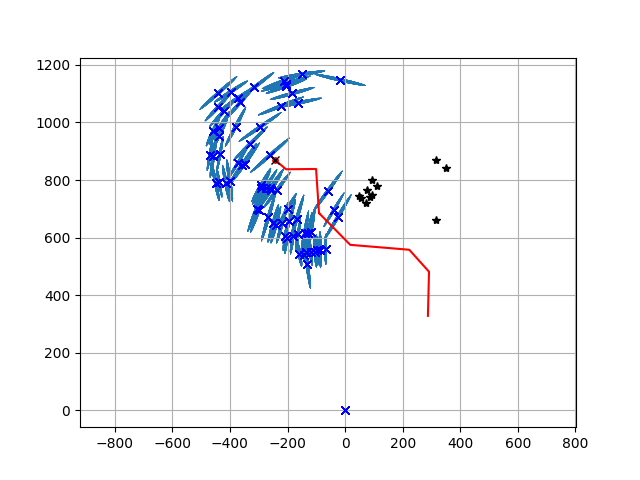
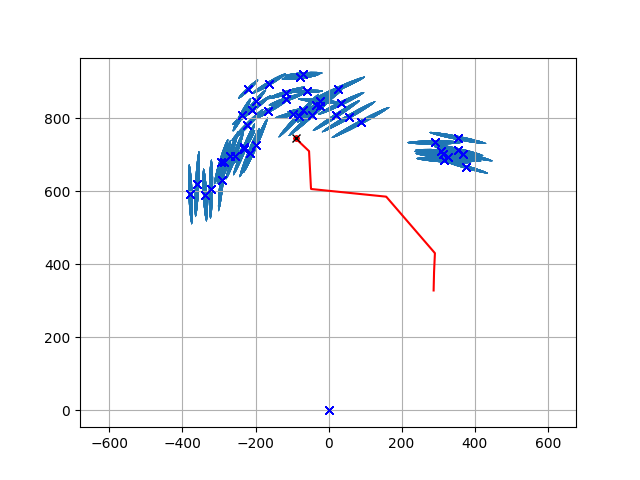
Final UI

diff --git a/EE183DB/AdaptableSLAMSolution/OnBoardCamera/fs2_baseline.py b/EE183DB/AdaptableSLAMSolution/OnBoardCamera/fs2_baseline.py
@@ -36,7 +36,7 @@ Q = np.diag([23.57, np.deg2rad(1/width * 2*18.4)])**2
 
 D_ASSOC_RADIUS = 5
 DT = 0.2  # time tick [s]
-SIM_LENGTH = 100  # simulation time [s]
+SIM_LENGTH = 100000  # simulation time [s] not used in the demo
 MAX_RANGE = 300.0  # maximum observation range
 
 STATE_SIZE = 3  # State size [x,y,yaw]
@@ -68,15 +68,26 @@ class Particle:
 
 def gen_input(t, num, ws):
     if (num % 2 == 0):
+        
         v_l = 90
         v_r = 90
         ws.send("90 90 100")
     else:
-        cmd_raw = input("F/B/L/R or W/S/A/D + Time: 100-200 \n")
-        inputs = Client.dir_to_cmd(cmd_raw)
+        while (True):
+            cmd_raw = input("Control with F/B/L/R or W/S/A/D or q: \n")
+            #Exit
+            if cmd_raw == 'q':
+                return 'q'
+            inputs = Client.dir_to_cmd(cmd_raw)
+            if cmd_raw == 'invalid': 
+                print("Invalid direction... please try again")
+                continue
+            else:
+                break
+        
+        print("SLAMING! Please wait...")
+        ws.send(inputs)
         inputs = np.fromstring(inputs, dtype=int, sep=' ')
-
-        print(inputs)
         """
         inputs  = np.array([[160,15, 200],
             [160,15, 200],
@@ -102,13 +113,13 @@ def gen_input(t, num, ws):
             [170,101, 200],
             ])
         """
-        #idx = int(num /2);
         v_l = inputs[0]
         v_r = inputs[1]
         #tm = inputs[2]
-        cmd = str(v_l) + " " + str(v_r)
-        print(cmd)
-        ws.send(cmd)
+        #print(cmd)
+        #cmd = str(v_l) + " " + str(v_r)
+
+        
     return np.array([[v_l], [v_r]])
 
 
@@ -565,9 +576,10 @@ def main(num_particle = 100, dt = 0.2):
         dist_err = [] 
         angle_err = []
         for k in range(NUM_ITER):
-            print("Starting Simulation %d..." % (k))
+            print("Starting SLAM! Press q to quit when it prompts")
              
             # For evaluation purpose
+            """
             env_lm = np.array([
                            [315.0, 659.5],
                            [71.0, 721.5],
@@ -581,7 +593,7 @@ def main(num_particle = 100, dt = 0.2):
                            [351.0, 841.0],
                            [316.5, 868.0],
                            ])
-
+            """
             #initialize states
             st_est = np.array([[INIT_X,INIT_Y,INIT_YAW]]).T
             #st_true = np.array([[INIT_X,INIT_Y,INIT_YAW]]).T
@@ -604,13 +616,15 @@ def main(num_particle = 100, dt = 0.2):
             start_time = time.time()
             fig = plt.figure()
             ax1 = fig.add_subplot(1,1,1)
-            while(SIM_LENGTH >= sim_time):
+            while(True):
                 startTime = time.time()
-                print("%.2f%%: %d Particles, dt = %.2f" % ((100*sim_time/SIM_LENGTH), num_particle, sim_dt), flush=True)
+                #print("%.2f%%: %d Particles, dt = %.2f" % ((100*sim_time/SIM_LENGTH), num_particle, sim_dt), flush=True)
             
                 sim_time += sim_dt
                 u = gen_input(sim_time,sim_num, ws)
-
+                if u == 'q':
+                    break
+                
                 particles, st_est, z = fast_slam2(particles, u, st_est, camera, rawCap)
 
                 st_est = calc_final_state(particles)
@@ -622,7 +636,7 @@ def main(num_particle = 100, dt = 0.2):
                 if show_animation:
                     
                     ax1.cla()
-                    plt.plot(env_lm[:, 0], env_lm[:, 1], "*k")
+                    #plt.plot(env_lm[:, 0], env_lm[:, 1], "*k")
                     if(len(z[0,:]) > 0):
                         for iz in range(len(z[0,:])):
                             lmid = int(z[2,iz])
@@ -657,7 +671,7 @@ def main(num_particle = 100, dt = 0.2):
                 # if we didnt, just plot the final version
                 # and save
                 
-                plt.plot(env_lm[:, 0], env_lm[:, 1], "*k")
+                #plt.plot(env_lm[:, 0], env_lm[:, 1], "*k")
 
                 if(len(z[0,:]) > 0):
                     for iz in range(len(z[0,:])):
@@ -677,7 +691,7 @@ def main(num_particle = 100, dt = 0.2):
                 plt.plot(st_est[0], st_est[1], "xk")
                 plt.axis("equal")
                 plt.grid(True)
-                plt.savefig("CompletedSLAM%d.png" %(num_particle))
+                plt.savefig("BaselineSLAM%d.png" %(num_particle))
 
             return
     except KeyboardInterrupt:
@@ -686,12 +700,12 @@ def main(num_particle = 100, dt = 0.2):
 
     #return sum(dist_err)/NUM_ITER, sum(angle_err)/NUM_ITER, sum(total_time)/NUM_ITER
 
-def run(num_particle, dt):
-    return main(num_particle, dt)
+def run(num_particle):
+    return main(num_particle)
 
 
 if __name__ == '__main__':
-    print("Number of Particles?")
+    print("Number of Particles: 10")
     i = 10#input()
     if i == '':
         main()

diff --git a/EE183DB/AdaptableSLAMSolution/OnBoardCamera/fs2_neural.py b/EE183DB/AdaptableSLAMSolution/OnBoardCamera/fs2_neural.py
@@ -93,7 +93,22 @@ def gen_input(t, num, ws):
         v_r = 90
         ws.send("90 90 100")
     else:
-
+        while (True):
+            cmd_raw = input("Control with F/B/L/R or W/S/A/D or q: \n")
+            #Exit
+            if cmd_raw == 'q':
+                return 'q'
+            inputs = Client.dir_to_cmd(cmd_raw)
+            if cmd_raw == 'invalid':
+                print("Invalid direction... please try again")
+                continue
+            else:
+                break
+        
+        print("SLAMING! Please wait...")
+        ws.send(inputs)
+        inputs = np.fromstring(inputs, dtype=int, sep=' ')
+        """
         inputs  = np.array([[160,15, 200],
             [160,15, 200],
             [160,15, 200],
@@ -117,18 +132,12 @@ def gen_input(t, num, ws):
             [160,15, 100],
             [170,101, 200],
             ])
-
-        idx = int(num /2);
-        if idx >= inputs.shape[0]:
-            v_l = 90
-            v_r = 90
-            ws.send("90 90 100")
-        else:
-            v_l = inputs[idx][0]
-            v_r = inputs[idx][1]
-            tm = inputs[idx][2]
-            cmd = str(v_l) + " " + str(v_r) + " " + str(tm)
-            ws.send(cmd)
+        """
+        v_l = inputs[0]
+        v_r = inputs[1]
+        #tm = inputs[2]
+        #print(cmd)
+        #cmd = str(v_l) + " " + str(v_r)
     return np.array([[v_l], [v_r]])
 
 
@@ -562,9 +571,10 @@ def main(num_particle = 100, dt = 0.2):
         dist_err = [] 
         angle_err = []
         for k in range(NUM_ITER):
-            print("Starting Simulation %d..." % (k))
+            print("Starting SLAM! Press q to quit when it prompts")
              
             # For evaluation purpose
+            """
             env_lm = np.array([
                            [315.0,659.5],
                            [71.0, 721.5],
@@ -573,7 +583,7 @@ def main(num_particle = 100, dt = 0.2):
                            [351.0, 841.0],
                            [316.5, 868.0]
                            ])
-
+            """
             #initialize states
             st_est = np.array([[INIT_X,INIT_Y,INIT_YAW]]).T
             #st_true = np.array([[INIT_X,INIT_Y,INIT_YAW]]).T
@@ -596,13 +606,14 @@ def main(num_particle = 100, dt = 0.2):
             start_time = time.time()
             fig = plt.figure()
             ax1 = fig.add_subplot(1,1,1)
-            while(SIM_LENGTH >= sim_time):
+            while(True):
                 startTime = time.time()
-                print("%.2f%%: %d Particles, dt = %.2f" % ((100*sim_time/SIM_LENGTH), num_particle, sim_dt), flush=True)
-            
+                #print("%.2f%%: %d Particles, dt = %.2f" % ((100*sim_time/SIM_LENGTH), num_particle, sim_dt), flush=True)
+                
                 sim_time += sim_dt
                 u = gen_input(sim_time,sim_num, ws)
-
+                if u == 'q':
+                    break
                 particles, st_est, z = fast_slam2(particles, u, st_est, camera, rawCap)
 
                 st_est = calc_final_state(particles)
@@ -614,7 +625,7 @@ def main(num_particle = 100, dt = 0.2):
                 if show_animation:
                     
                     ax1.cla()
-                    plt.plot(env_lm[:, 0], env_lm[:, 1], "*k")
+                    #plt.plot(env_lm[:, 0], env_lm[:, 1], "*k")
                     if(len(z[0,:]) > 0):
                         for iz in range(len(z[0,:])):
                             lmid = int(z[2,iz])
@@ -649,7 +660,7 @@ def main(num_particle = 100, dt = 0.2):
                 # if we didnt, just plot the final version
                 # and save
                 
-                plt.plot(env_lm[:, 0], env_lm[:, 1], "*k")
+                #plt.plot(env_lm[:, 0], env_lm[:, 1], "*k")
 
                 if(len(z[0,:]) > 0):
                     for iz in range(len(z[0,:])):
@@ -669,7 +680,7 @@ def main(num_particle = 100, dt = 0.2):
                 plt.plot(st_est[0], st_est[1], "xk")
                 plt.axis("equal")
                 plt.grid(True)
-                plt.savefig("CompletedSLAM%d.png" %(num_particle))
+                plt.savefig("NeuralSLAM%d.png" %(num_particle))
 
             return
     except KeyboardInterrupt:
@@ -678,12 +689,12 @@ def main(num_particle = 100, dt = 0.2):
 
     #return sum(dist_err)/NUM_ITER, sum(angle_err)/NUM_ITER, sum(total_time)/NUM_ITER
 
-def run(num_particle, dt):
-    return main(num_particle, dt)
+def run(num_particle):
+    return main(num_particle)
 
 
 if __name__ == '__main__':
-    print("Number of Particles?")
+    print("Number of Particles: 10")
     i = 10#input()
     if i == '':
         main()

diff --git a/EE183DB/AdaptableSLAMSolution/OnBoardCamera/Client.py b/EE183DB/AdaptableSLAMSolution/OnBoardCamera/Client.py
@@ -6,8 +6,8 @@ import math
 
 #esp8266host = "ws://192.168.0.104:81/"
 import time
-#esp8266host = "ws://192.168.0.104:81/"
-esp8266host = "ws://192.168.50.133:81/"
+esp8266host = "ws://192.168.0.104:81/"
+#esp8266host = "ws://192.168.50.133:81/"
 
 #new pi weber home
 #esp8266host = "ws://192.168.50.9:81/"
@@ -52,14 +52,18 @@ def dir_to_cmd(command):
     if tmp[0] in dirs:
         if tmp[0] == 'f' or tmp[0] == 'w':
             cmd = '160 15 ' + '100'
+            print("Forward!")
         elif tmp[0] == 'b' or tmp[0] == 's':
             cmd = '0 180 ' + '100'
+            print("Backward!")
         elif tmp[0] == 'r' or tmp[0] == 'd':
             cmd = '170 101 '+ '100'
+            print("Right!")
         elif tmp[0] == 'l' or tmp[0] == 'a':
             cmd = '83 85 '+ '100'
+            print("Left!")
     else:
-        cmd = command
+        cmd = 'invalid'
     return cmd
 
 if __name__ == '__main__':

diff --git a/EE183DB/AdaptableSLAMSolution/OnBoardCamera/ContourFind.py b/EE183DB/AdaptableSLAMSolution/OnBoardCamera/ContourFind.py
@@ -77,7 +77,7 @@ def locateObstacle(img):
         for k, loc in enumerate(np.hsplit(locationz, locationz.shape[1])):
             d2 = loc[0]
             angle = loc[1]
-            print(d2, angle*180/np.pi)
+            #print(d2, angle*180/np.pi)
             """
             x = loc[2]
             y = loc[3]  
@@ -120,7 +120,7 @@ def motion_model(st, u, DT):
         v[1,0] = -208.6064064
 
     v = np.array([[(v[0,0] + v[1,0])/2], [1/123 * (v[1,0] - v[0,0])]])
-    print(st)
+    #print(st)
     st = F @ st + np.transpose(B @ v)
 
     st[0,2] = pi_2_pi(st[0,2])

diff --git a/EE183DB/AdaptableSLAMSolution/OnBoardCamera/fs2_master.py b/EE183DB/AdaptableSLAMSolution/OnBoardCamera/fs2_master.py
@@ -1,0 +1,27 @@
+
+import fs2_neural
+import fs2_baseline
+
+
+def main():
+	while (True):
+		select = input("[N]eural? or [B]aseline? or [Q]uit?")
+		if select == 'n' or 'N':
+			print("Selected Neural FastSLAM")
+			fs2_neural.run(10)
+			break
+
+		elif select == 'b' or 'B':
+			print("Selected Baseline FastSLAM")
+			fs2_baseline.run(10)
+			break
+
+		elif select == 'q' or 'Q':
+			print("Quitting...")
+			break
+		else:
+			print("Invalid input, please try again")
+
+
+if __name__ == '__main__':
+    main()
